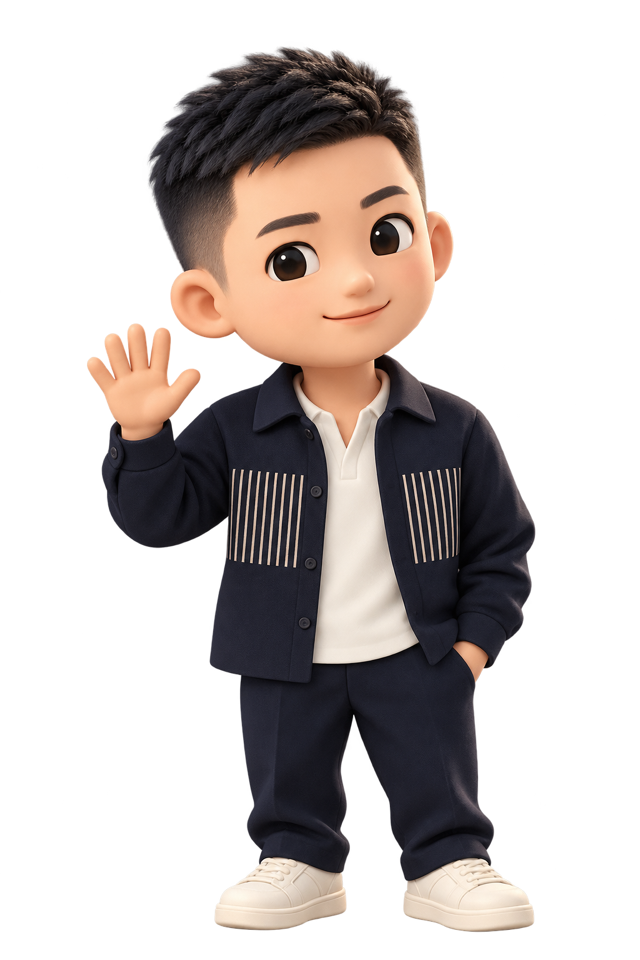
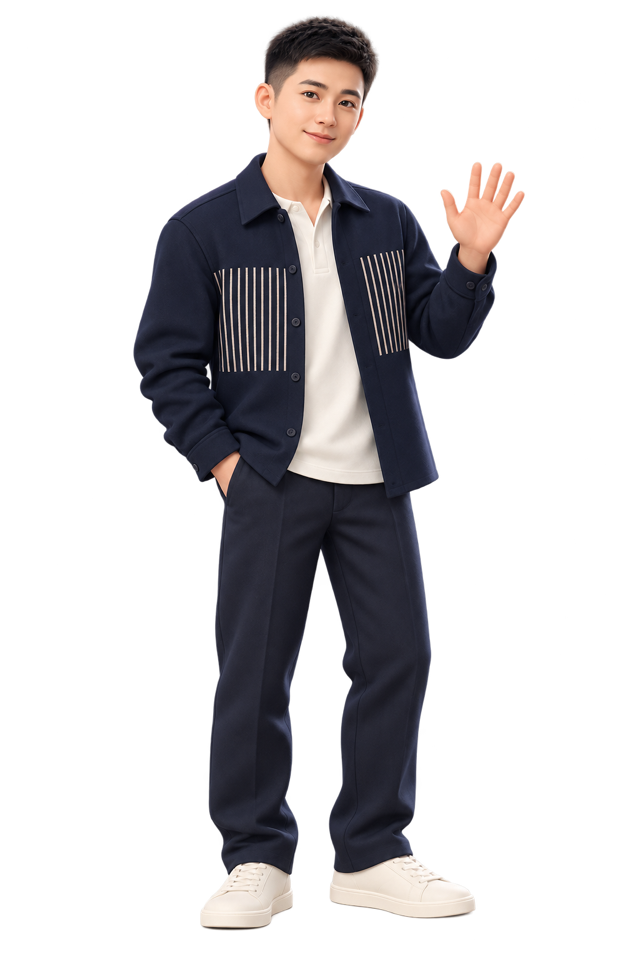
Use selected portrait-style greeting character

diff --git a/home.html b/home.html
@@ -58,7 +58,7 @@
               <span class="mascot-halo" aria-hidden="true"></span>
               <p id="mascot-greeting" class="mascot-greeting" role="status" aria-live="polite" aria-atomic="true"></p>
               <button id="mascot-button" class="mascot-button" type="button" aria-label="和马骁的卡通形象打个招呼" aria-describedby="mascot-hint">
-                <img src="assets/maxiao-mascot.png" alt="" width="1024" height="1536" loading="lazy" decoding="async" draggable="false">
+                <img src="assets/maxiao-mascot.png?v=20261102-portrait" alt="" width="1024" height="1536" loading="lazy" decoding="async" draggable="false">
               </button>
               <p id="mascot-hint" class="mascot-hint">点点我，打个招呼 <span aria-hidden="true">↖</span></p>
             </div>
